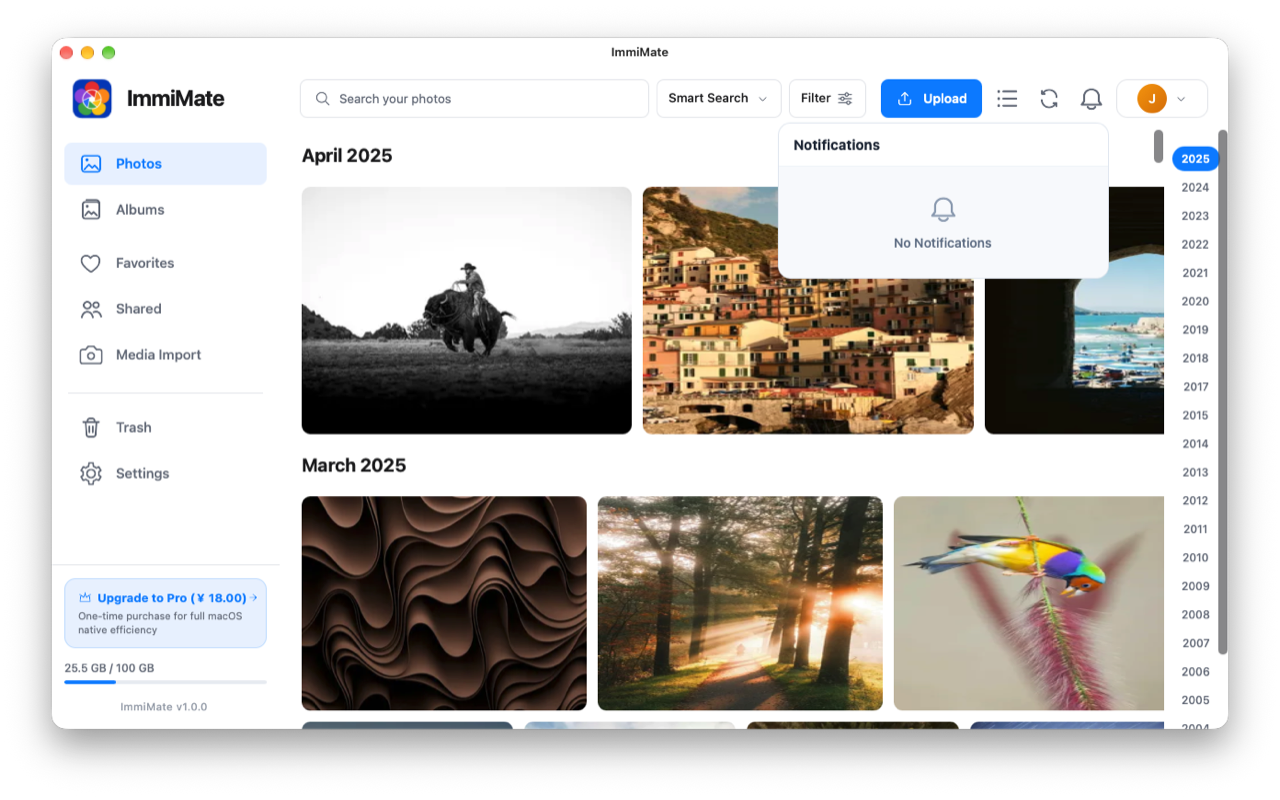
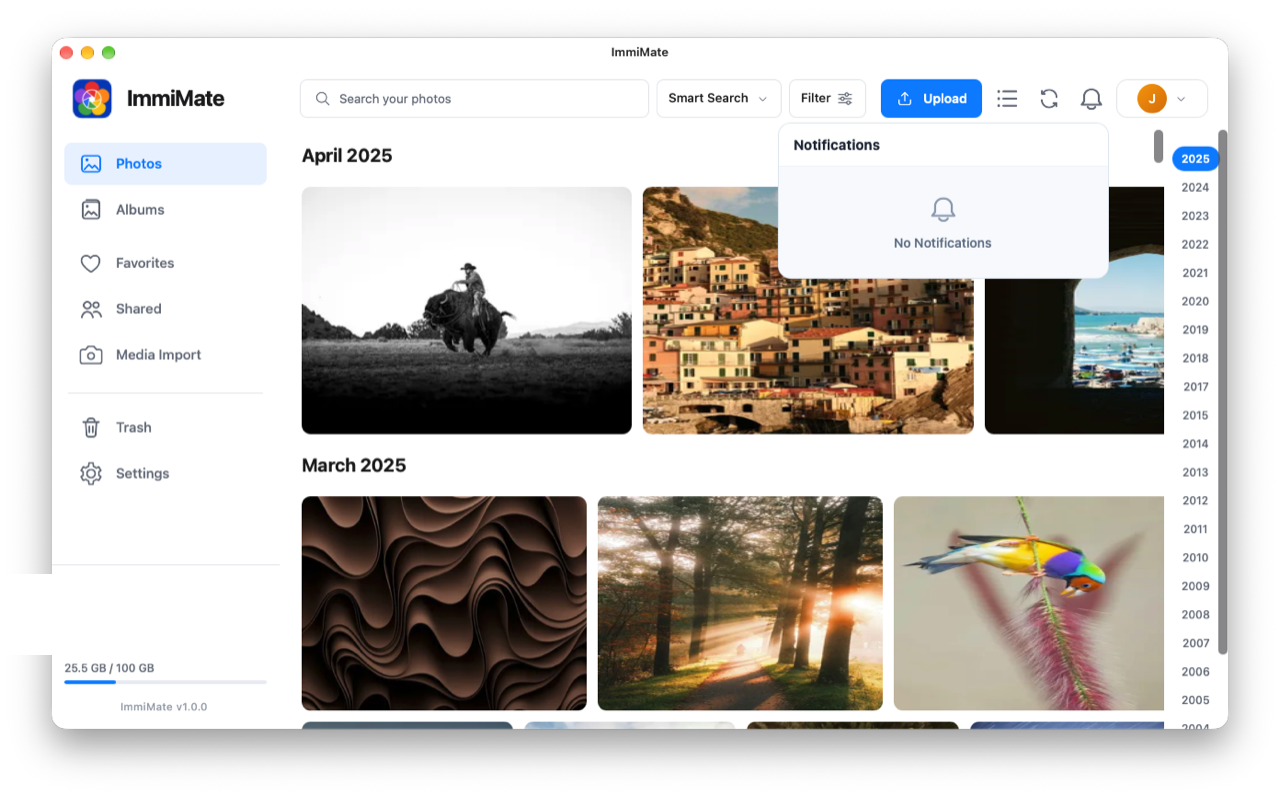
chore(site): refresh screenshots for current macOS UI

Changed region(s): [[0.0312, 0.7188, 0.2188, 0.8125]]

diff --git a/index.html b/index.html
@@ -137,8 +137,12 @@
               <div class="shot-image"><img src="assets/screenshots/import.png" alt="ImmiMate removable media import wizard" width="1280" height="800" loading="lazy"></div>
               <figcaption><span>Import</span><strong>Bring in camera media with a clear path.</strong><small>Use the guided flow for SD cards, cameras, and removable drives.</small></figcaption>
             </figure>
+            <figure class="shot shot-wide">
+              <div class="shot-image"><img src="assets/screenshots/account.png" alt="ImmiMate account menu with the Pro upgrade entry" width="1280" height="800" loading="lazy"></div>
+              <figcaption><span>Account</span><strong>Keep Pro access with your account.</strong><small>The account menu keeps upgrade and account actions together in the top-right corner.</small></figcaption>
+            </figure>
           </div>
-          <p class="source-note"><span aria-hidden="true">✦</span> Screenshots captured from the official Immich Demo server, not a mock server.</p>
+          <p class="source-note"><span aria-hidden="true">✦</span> Product imagery comes from the official Immich Demo; current UI captures use the release build with redacted fixture account data.</p>
         </div>
       </section>
 

diff --git a/README.md b/README.md
@@ -6,7 +6,7 @@ The site is intentionally static so it can be mirrored to the public GitHub Page
 
 ## Screenshots
 
-The product screenshots in `assets/screenshots/` were captured from the official Immich Demo server (`https://demo.immich.app`) and show real ImmiMate workflows. They are not mock-server screenshots and contain no demo credentials.
+The gallery uses imagery from the official Immich Demo server (`https://demo.immich.app`) together with current release-build captures for the account menu and Pro entry-point layout. The release-build captures use redacted fixture account data; no credentials or private photos are included.
 
 ## Local preview
 
